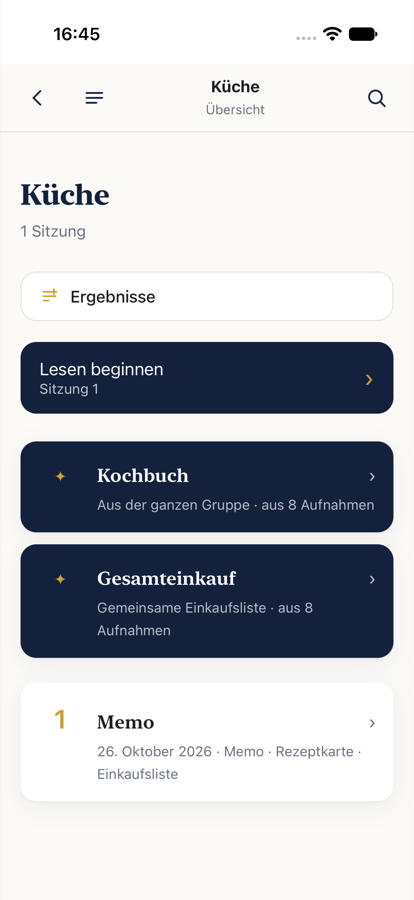
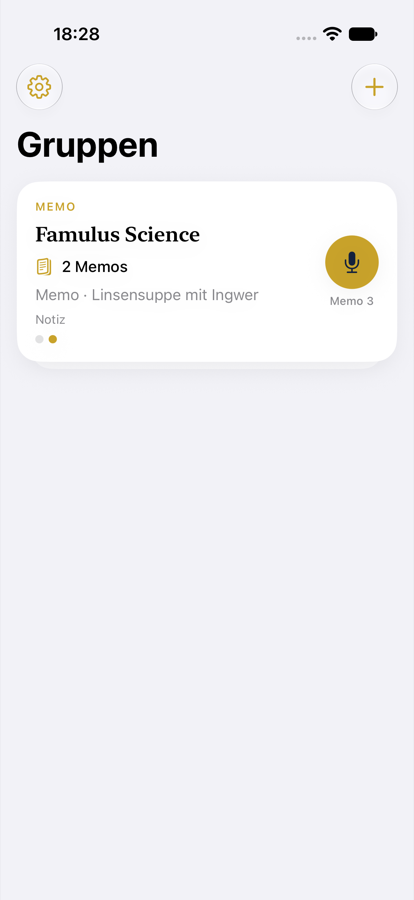
Current app screens: memo groups, section headings, contents

diff --git a/index.html b/index.html
@@ -71,7 +71,7 @@ footer{padding:36px 0 48px;color:var(--muted);font-size:14px;border-top:1px soli
 <div class="step"><h3><span data-l="de">Lesen & Teilen</span><span data-l="en">Read & share</span></h3><p><span data-l="de">Lesen wie ein Buch, mit Inhaltsverzeichnis. Teilen als PDF, Text oder Markdown – per Mail, Nachricht oder AirDrop.</span><span data-l="en">Read it like a book, with contents. Share as PDF, text or Markdown – by mail, message or AirDrop.</span></p></div>
 </div></section>
 
-<section><h2><span data-l="de">Ansehen</span><span data-l="en">Have a look</span></h2><div class="shots"><figure><img src="assets/cover.png" alt="" loading="lazy"><figcaption><span data-l="de">Eine Gruppe als Buch</span><span data-l="en">A group as a book</span></figcaption></figure><figure><img src="assets/rezeptkarte.png" alt="" loading="lazy"><figcaption><span data-l="de">Rezeptkarte aus einem Diktat</span><span data-l="en">Recipe card from a dictation</span></figcaption></figure><figure><img src="assets/kochbuch.png" alt="" loading="lazy"><figcaption><span data-l="de">Das Kochbuch der Gruppe</span><span data-l="en">The group's cookbook</span></figcaption></figure><figure><img src="assets/ergebnisse.png" alt="" loading="lazy"><figcaption><span data-l="de">Was soll entstehen?</span><span data-l="en">What should come out?</span></figcaption></figure></div></section>
+<section><h2><span data-l="de">Ansehen</span><span data-l="en">Have a look</span></h2><div class="shots"><figure><img src="assets/cover.png" alt="" loading="lazy"><figcaption><span data-l="de">Eine Gruppe sammelt Memos</span><span data-l="en">A group collects memos</span></figcaption></figure><figure><img src="assets/inhalt.png" alt="" loading="lazy"><figcaption><span data-l="de">Inhalt mit Zwischenüberschriften</span><span data-l="en">Contents with section headings</span></figcaption></figure><figure><img src="assets/rezeptkarte.png" alt="" loading="lazy"><figcaption><span data-l="de">Rezeptkarte aus einem Diktat</span><span data-l="en">Recipe card from a dictation</span></figcaption></figure><figure><img src="assets/kochbuch.png" alt="" loading="lazy"><figcaption><span data-l="de">Das Kochbuch der Gruppe</span><span data-l="en">The group's cookbook</span></figcaption></figure><figure><img src="assets/ergebnisse.png" alt="" loading="lazy"><figcaption><span data-l="de">Gliederung per Schalter</span><span data-l="en">Structure by one switch</span></figcaption></figure></div></section>
 
 <section><h2><span data-l="de">Was mit Ihren Aufnahmen geschieht</span><span data-l="en">What happens to your recordings</span></h2><div class="trust">
 <div><b><span data-l="de">Wortnah, nicht erfunden.</span><span data-l="en">Close to the words, nothing invented.</span></b> <span data-l="de">Die Abschrift wird geglättet, nicht gekürzt. Abgeleitete Ergebnisse sind als solche markiert; Zahlen und Namen, die nicht an der genannten Stelle stehen, heißen „nicht belegt“.</span><span data-l="en">The transcript is smoothed, not shortened. Derived results are marked as such; numbers and names not found at the cited place are flagged “not supported”.</span></div>
